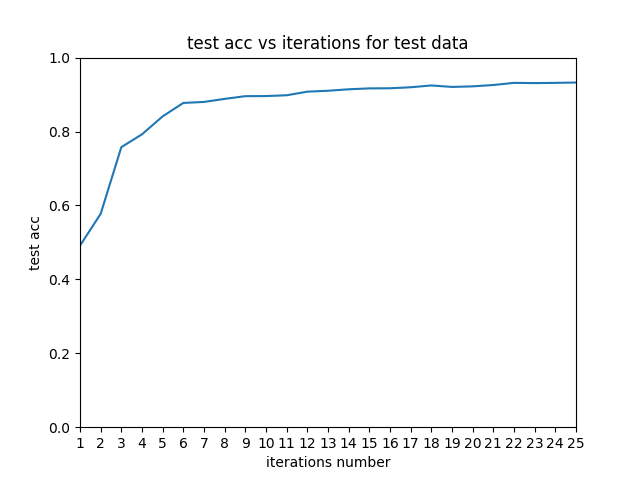
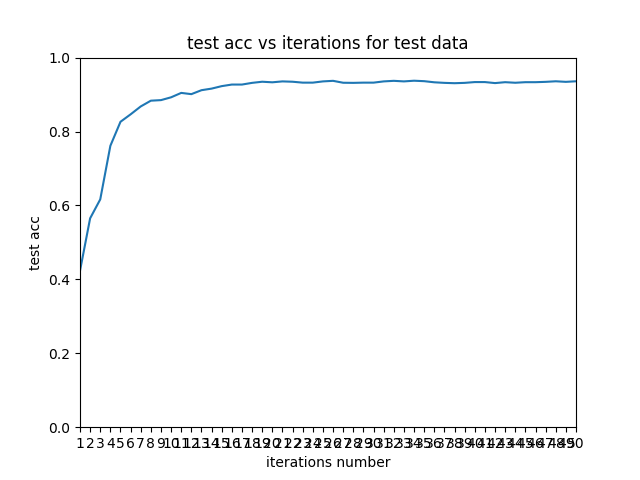
add all png

diff --git a/func.py b/func.py
@@ -47,19 +47,18 @@ def backward_relu(out, cache):
 
 
 def cross_entropy(x, y):
-    print x
     x= x.astype(np.float32)
-    #probs = np.exp(x)
-    probs = np.exp(x - np.max(x, axis=1, keepdims=True))
+    probs = np.exp(x)
+    #probs = np.exp(x - np.max(x, axis=1, keepdims=True))
     probs /= np.sum(probs, axis=1, keepdims=True)
     N = x.shape[0]
-    #logprobs = []
-    #for i in xrange(probs.shape[0]):
-    #    logprobs.append(probs[i][y[i]])
-    #corect_logprobs = -np.log(logprobs)
-    #loss = np.sum(corect_logprobs)
-    #loss = loss / N
-    loss = 0
+    logprobs = []
+    for i in xrange(probs.shape[0]):
+        logprobs.append(probs[i][y[i]])
+    corect_logprobs = -np.log(logprobs)
+    loss = np.sum(corect_logprobs)
+    loss = loss / N
+    #loss = 0
     dx = probs.copy()
     for i in xrange(probs.shape[0]):
         dx[i][y[i]] -= 1
@@ -68,19 +67,6 @@ def cross_entropy(x, y):
 
 
 def adam(x, dx, config=None):
-    """
-    Uses the Adam update rule, which incorporates moving averages of both the
-    gradient and its square and a bias correction term.
-
-    config format:
-    - learning_rate: Scalar learning rate.
-    - beta1: Decay rate for moving average of first moment of gradient.
-    - beta2: Decay rate for moving average of second moment of gradient.
-    - epsilon: Small scalar used for smoothing to avoid dividing by zero.
-    - m: Moving average of gradient.
-    - v: Moving average of squared gradient.
-    - t: Iteration number.
-    """
     if config is None: 
         config = {}
         config['learning_rate'] = 1e-3
@@ -90,30 +76,42 @@ def adam(x, dx, config=None):
         config['m'] = np.zeros_like((x))
         config['v'] = np.zeros_like((x))
         config['t'] = 0
-    
     next_x = None
-    #############################################################################
-    # TODO: Implement the Adam update formula, storing the next value of x in   #
-    # the next_x variable. Don't forget to update the m, v, and t variables     #
-    # stored in config.                                                         #
-    #############################################################################
     learning_rate, beta1, beta2, eps, m, v, t \
         = config['learning_rate'], config['beta1'], config['beta2'], \
         config['epsilon'], config['m'], config['v'], config['t']
-    
     t += 1
     m = beta1 * m + (1 - beta1) * dx
     v = beta2 * v + (1 - beta2) * (dx**2)
-
     # bias correction:
     mb = m / (1 - beta1**t)
     vb = v / (1 - beta2**t)
-
     next_x = -learning_rate * mb / (np.sqrt(vb) + eps) + x
-
     config['m'], config['v'], config['t'] = m, v, t
-    #############################################################################
-    #                             END OF YOUR CODE                              #
-    #############################################################################
-    
+    return next_x, config
+
+
+def sgd_momentum(w, dw, config=None):
+    if config is None:
+        config = {}
+        config['learning_rate'] = 1e-1
+        config['momentum'] = 0.6
+        config['velocity'] = np.zeros_like(w)
+    v = config['velocity']
+    next_v = config['momentum'] * v - config['learning_rate'] * dw
+    next_w = w + next_v
+    config['velocity'] = next_v
+    return next_w, config
+
+def rmsprop(x, dx, config=None):
+    if config is None:
+        config = {}
+        config['learning_rate'] = 1e-1
+        config['decay_rate'] = 0.99
+        config['epsilon'] = 1e-8
+        config['cache'] = np.zeros_like(x)
+    config['cache'] = config['cache'] * config['decay_rate'] +\
+        (1 - config['decay_rate']) * dx**2
+    next_x = x - config['learning_rate'] * dx / (np.sqrt(config['cache']
+                                                         + config['epsilon']))
     return next_x, config

diff --git a/experiment.py b/experiment.py
@@ -1,10 +1,10 @@
 import numpy as np 
 
-from func import sgd, adam
+from func import sgd, adam, sgd_momentum, rmsprop
 
 class Experiment(object):
 
-    def __init__(self, model, data, num_iterations, learning_rate, batchsize = 16):
+    def __init__(self, model, data, num_iterations, learning_rate, batchsize = 32):
         self.model = model
         self.x_train = data['x_train']
         self.y_train = data['y_train']
@@ -28,9 +28,9 @@ class Experiment(object):
             loss = self._iteration()
             train_acc = self.check_accuracy(self.x_train, self.y_train)
             test_acc = self.check_accuracy(self.x_test, self.y_test)
-#            print "iteration %d, loss %f" %(i, loss)
-            print '[Iteration %d / %d] loss: %f; Training Accuracy: %f; Test Accuracy: %f' % (i + 1, self.num_iterations, loss, train_acc, test_acc)
-            info = {"loss":loss, "train_acc": train_acc, "test_acc": test_acc}
+            test_loss,_,_ = self.model.compute(self.x_test, self.y_test)
+            print '[Iteration %d / %d] loss: %f; Training Accuracy: %f; Test Accuracy: %f; Test Loss: %f' % (i + 1, self.num_iterations, loss, train_acc, test_acc, test_loss)
+            info = {"loss":loss, "train_acc": train_acc, "test_acc": test_acc, "test_loss": test_loss}
             self.loss_log.append(info)
 
     # for 2 (1,2,3) 
@@ -52,15 +52,14 @@ class Experiment(object):
                 dw = gradiens_W[w_size - i - 1]
                 b_old = self.model.B[i]
                 db = gradiens_B[w_size - i - 1]
-                #next_w, next_learning_rate = sgd(w_old, dw, self.learning_rate)
-                #next_b, next_learning_rate = sgd(b_old, db, self.learning_rate)
-                #self.learning_rate = next_learning_rate
                 next_w, self.config_w[i] = adam(w_old, dw, self.config_w[i])
                 next_b, self.config_b[i] = adam(b_old, db, self.config_b[i])
+                #next_w, self.config_w[i] = sgd_momentum(w_old, dw, self.config_w[i])
+                #next_b, self.config_b[i] = sgd_momentum(b_old, db, self.config_b[i])
+                #next_w, self.config_w[i] = rmsprop(w_old, dw, self.config_w[i])
+                #next_b, self.config_b[i] = rmsprop(b_old, db, self.config_b[i])
                 self.model.W[i] = next_w
                 self.model.B[i] = next_b
-            #print self.model.W
-            #print self.model.B
         return loss
             
     # for 2 (1,2,3) 

diff --git a/models/ThreeLayers.py b/models/ThreeLayers.py
@@ -35,12 +35,12 @@ class ThreeLayers(object):
                 hiddenL1 = 14
                 repeat = 28
                 self.B.append(np.zeros((1,hiddenL1)))
-                self.W.append(np.random.rand(input_dim, hiddenL1)*0.01)
+                self.W.append(np.random.rand(input_dim, hiddenL1)*0.1)
                 for i in xrange(repeat-1):
                     self.B.append(np.zeros((1,hiddenL1)))
-                    self.W.append(np.random.rand(hiddenL1, hiddenL1)*0.01)
+                    self.W.append(np.random.rand(hiddenL1, hiddenL1)*0.1)
                 self.B.append(np.zeros((1,num_output)))
-                self.W.append(np.random.rand(hiddenL1, num_output)*0.01)
+                self.W.append(np.random.rand(hiddenL1, num_output)*0.1)
     
     def load(self, w, b):
         if self.case == 1:
@@ -90,7 +90,6 @@ class ThreeLayers(object):
     def compute(self, X, Y=None):
         layers = []
         caches = []
-        reg = 1e-3 # regularization strength
         ## Forward calculation and active
         t_x = X
         for i in xrange(len(self.W)):
@@ -114,8 +113,6 @@ class ThreeLayers(object):
         gradiens_B = []
         ## Cross entropy 
         loss, de_loss = cross_entropy(layers[len(layers)-1], Y)
-        #reg_loss = 0.5*reg*np.sum(W*W)
-        #loss += reg_loss
         ## Back propogation
         dout = de_loss
         for i in xrange(len(caches)):

diff --git a/plot.py b/plot.py
@@ -1,16 +1,21 @@
+import matplotlib.pyplot as plt
+
 def print_graph(loss_log):
     x = []
     y = []
     y1 = []
     y2 = []
+    y3 = []
     for i, info in enumerate(loss_log):
         loss = info["loss"]
         train_acc = info["train_acc"]
         test_acc = info["test_acc"]
+        test_loss = info["test_loss"]
         x.append(i+1)
         y.append(loss)
         y1.append(train_acc)
         y2.append(test_acc)
+        y3.append(test_loss)
     plt.figure(1)
     plt.xlabel('iterations number')
     plt.ylabel('loss')
@@ -38,3 +43,12 @@ def print_graph(loss_log):
     plt.xticks(x)
     plt.plot(x, y2)
     plt.savefig('test_acc.png')
+    plt.figure(4)
+    plt.xlabel('iterations number')
+    plt.ylabel('test loss')
+    plt.title('test loss vs iterations for test data')
+    plt.ylim([0,2])
+    plt.xlim([1,len(loss_log)])
+    plt.xticks(x)
+    plt.plot(x, y3)
+    plt.savefig('test_loss.png')

diff --git a/main.py b/main.py
@@ -4,7 +4,6 @@ import numpy as np
 import models.ThreeLayers as three
 from experiment import Experiment
 from plot import print_graph
-import matplotlib.pyplot as plt
 
 def readfile(path):
     x_train = []
@@ -97,6 +96,6 @@ if __name__ == "__main__":
     data = {"x_train": x_train, "y_train": y_train,
             "x_test": x_test, "y_test": y_test,
             "x_a": x_a, "y_a": y_a}
-#    q2_123(data)
-    q2_4(data, "data/c/") 
+    q2_123(data)
+#    q2_4(data, "data/c/") 
 
